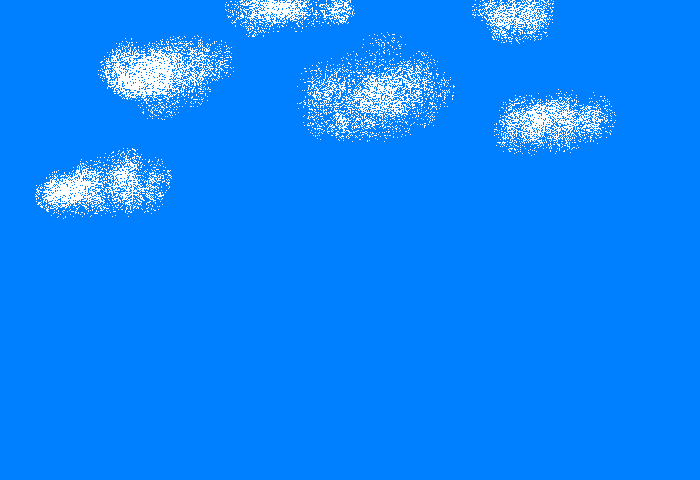
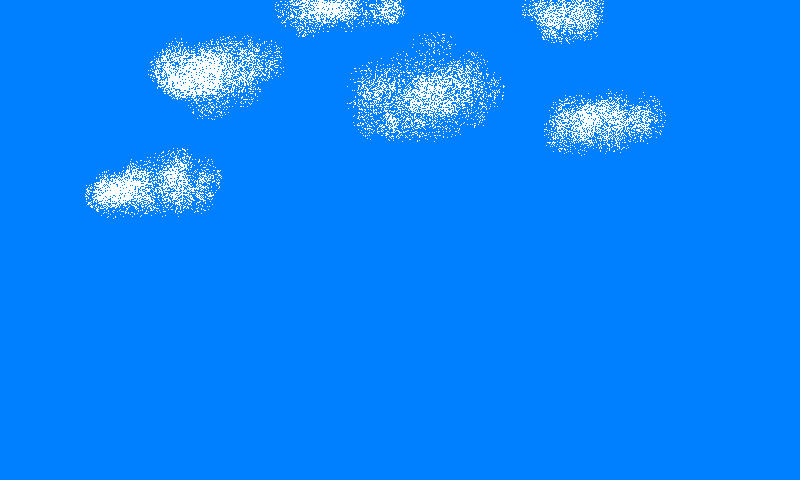
fix aspect ratio

diff --git a/index.html b/index.html
@@ -1,1 +1,1 @@
-<!DOCTYPE html><html><head><meta charset=UTF-8><title>Jumper</title><style>html{height:100%}body{background:#000 center center;background-size:cover;margin:0;padding:0;height:100%;color:red}#centermiddle{display:flex;align-items:center;justify-content:center;height:100%}@keyframes heartFadeInOut{0%{transform:scale(1)}25%{transform:scale(.97)}35%{transform:scale(.9)}45%{transform:scale(1.1)}55%{transform:scale(.9)}65%{transform:scale(1.1)}75%{transform:scale(1.03)}100%{transform:scale(1)}}#heart{animation-name:heartFadeInOut;animation-iteration-count:infinite;animation-duration:2s;font-size:5em;display:inline-block}#loading{text-align:center}#main{width:100%;display:none}#main canvas{width:100%}.light-outer{display:flex;align-items:center;justify-content:space-around;position:relative}.light-overlay{position:absolute;color:#ccc;margin:auto;height:34vmin;width:17vmin;left:50%;top:50%;margin-left:-8.5vmin;margin-top:-17vmin;display:block;pointer-events:none}.light{width:2px;height:2px;border-radius:100%;margin:10vmin 7vmin}</style></head><body><div id=centermiddle><div id=loading><div id=heart>&hearts;</div><br><progress id=progress value=0 max=100></progress></div><div id=main></div></div><script>!function(e){function n(n,o){r[o]=n;for(var s=0;s<t.length;s++){if(!1===r[s])return;if(r[s]){var l=e.createElement("script");l.src=URL.createObjectURL(r[s].response),e.body.appendChild(l),r[s]=null}}r.length=0}var t=["dist/app.js?1497364772395"];window.Promise||t.unshift("dist/promise.min.js");var o,r=[],s=[];for(o=0;o<t.length;o++)r.push(!1),s.push(0);for(o=0;o<t.length;o++)!function(t,o){var r=new XMLHttpRequest;r.open("GET",t,!0),r.responseType="blob",r.onload=function(){n(r,o)},r.onprogress=function(n){var t=0,r=0;for(s[o]=n.total?n.loaded/n.total:0,r=0;r<s.length;r++)t+=100*s[r]/s.length;if(t>0){var l=e.getElementById("progress");l&&(l.style.display="block",l.value=Math.round(t),l.innerHTML=Math.round(t)+"%")}},r.send()}(t[o],o)}(document)</script></body></html>
+<!DOCTYPE html><html><head><meta charset=UTF-8><title>Jumper</title><style>html{height:100%}body{background:#000 center center;background-size:cover;margin:0;padding:0;height:100%;color:red}#centermiddle{display:flex;align-items:center;justify-content:center;height:100%}@keyframes heartFadeInOut{0%{transform:scale(1)}25%{transform:scale(.97)}35%{transform:scale(.9)}45%{transform:scale(1.1)}55%{transform:scale(.9)}65%{transform:scale(1.1)}75%{transform:scale(1.03)}100%{transform:scale(1)}}#heart{animation-name:heartFadeInOut;animation-iteration-count:infinite;animation-duration:2s;font-size:5em;display:inline-block}#loading{text-align:center}#main{width:100%;display:none;max-height:100%}@media (max-aspect-ratio:16/10){#main canvas{width:100%}}@media (min-aspect-ratio:16/10){#main canvas{height:100vh;display:block;margin:auto}}.light-outer{display:flex;align-items:center;justify-content:space-around;position:relative}.light-overlay{position:absolute;color:#ccc;margin:auto;height:34vmin;width:17vmin;left:50%;top:50%;margin-left:-8.5vmin;margin-top:-17vmin;display:block;pointer-events:none}.light{width:2px;height:2px;border-radius:100%;margin:10vmin 7vmin}</style></head><body><div id=centermiddle><div id=loading><div id=heart>&hearts;</div><br><progress id=progress value=0 max=100></progress></div><div id=main></div></div><script>!function(e){function n(n,o){r[o]=n;for(var s=0;s<t.length;s++){if(!1===r[s])return;if(r[s]){var l=e.createElement("script");l.src=URL.createObjectURL(r[s].response),e.body.appendChild(l),r[s]=null}}r.length=0}var t=["dist/app.js?1497388045177"];window.Promise||t.unshift("dist/promise.min.js");var o,r=[],s=[];for(o=0;o<t.length;o++)r.push(!1),s.push(0);for(o=0;o<t.length;o++)!function(t,o){var r=new XMLHttpRequest;r.open("GET",t,!0),r.responseType="blob",r.onload=function(){n(r,o)},r.onprogress=function(n){var t=0,r=0;for(s[o]=n.total?n.loaded/n.total:0,r=0;r<s.length;r++)t+=100*s[r]/s.length;if(t>0){var l=e.getElementById("progress");l&&(l.style.display="block",l.value=Math.round(t),l.innerHTML=Math.round(t)+"%")}},r.send()}(t[o],o)}(document)</script></body></html>

diff --git a/dist/app.js b/dist/app.js
@@ -19945,7 +19945,7 @@ PIXI.loader.on("progress", function (loader) {
     document.getElementById('loading').style.display = 'none';
     document.getElementById('main').style.display = 'block';
     // The stage to play your game.
-    var renderer = renderer = PIXI.autoDetectRenderer(700, 480);
+    var renderer = renderer = PIXI.autoDetectRenderer(800, 480);
     document.getElementById('main').appendChild(renderer.view);
 
     renderer.autoResize = true;
@@ -20311,8 +20311,8 @@ PIXI.loader.on("progress", function (loader) {
             }
 
             // scrollen
-            if (hero.sprite.x + stage.x > 300) {
-                stage.x = Math.min(300 - hero.sprite.x, 0);
+            if (hero.sprite.x + stage.x > 2 * renderer.width / 5) {
+                stage.x = Math.min(2 * renderer.width / 5 - hero.sprite.x, 0);
             }
             if (hero.sprite.x + stage.x < 150) {
                 stage.x = Math.min(150 - hero.sprite.x, 0);

diff --git a/src/app.js b/src/app.js
@@ -88,7 +88,7 @@ PIXI.loader.on("progress", function (loader) {
     document.getElementById('loading').style.display = 'none';
     document.getElementById('main').style.display = 'block';
 // The stage to play your game.
-    var renderer = renderer = PIXI.autoDetectRenderer(700, 480);
+    var renderer = renderer = PIXI.autoDetectRenderer(800, 480);
     document.getElementById('main').appendChild(renderer.view);
 
     renderer.autoResize = true;
@@ -476,8 +476,8 @@ PIXI.loader.on("progress", function (loader) {
             }
 
             // scrollen
-            if (hero.sprite.x + stage.x > 300) {
-                stage.x = Math.min(300 - hero.sprite.x, 0);
+            if (hero.sprite.x + stage.x > 2 * renderer.width / 5) {
+                stage.x = Math.min(2 * renderer.width / 5 - hero.sprite.x, 0);
             }
             if (hero.sprite.x + stage.x < 150) {
                 stage.x = Math.min(150 - hero.sprite.x, 0);

diff --git a/src/index.html b/src/index.html
@@ -64,12 +64,23 @@
 		}
 
 		#main {
-			width:100%;
+			width: 100%;
 			display: none;
+			max-height: 100%;
 		}
 
-		#main canvas {
-			width: 100%;
+		@media (max-aspect-ratio: 16/10) {
+			#main canvas {
+				width: 100%;
+			}
+		}
+
+		@media (min-aspect-ratio: 16/10) {
+			#main canvas {
+				height: 100vh;
+				display: block;
+				margin: auto;
+			}
 		}
 
 		.light-outer {
